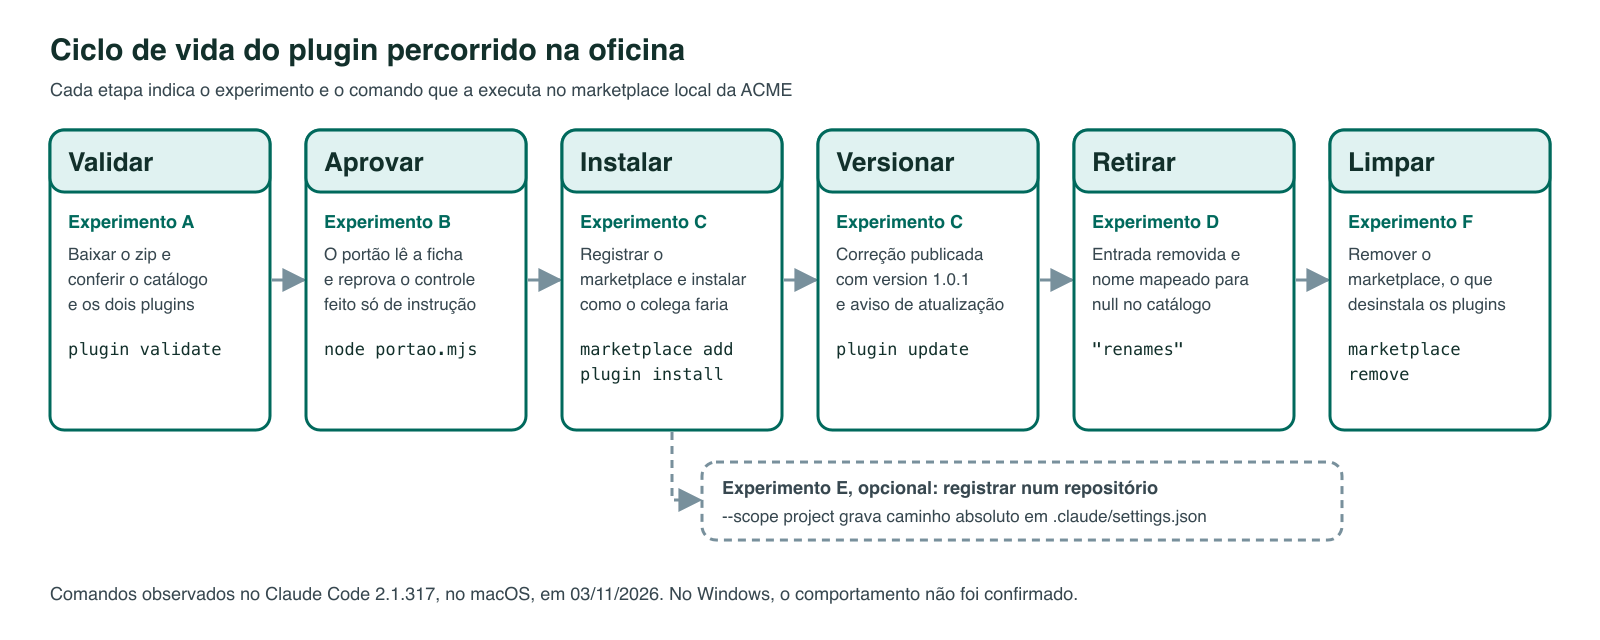
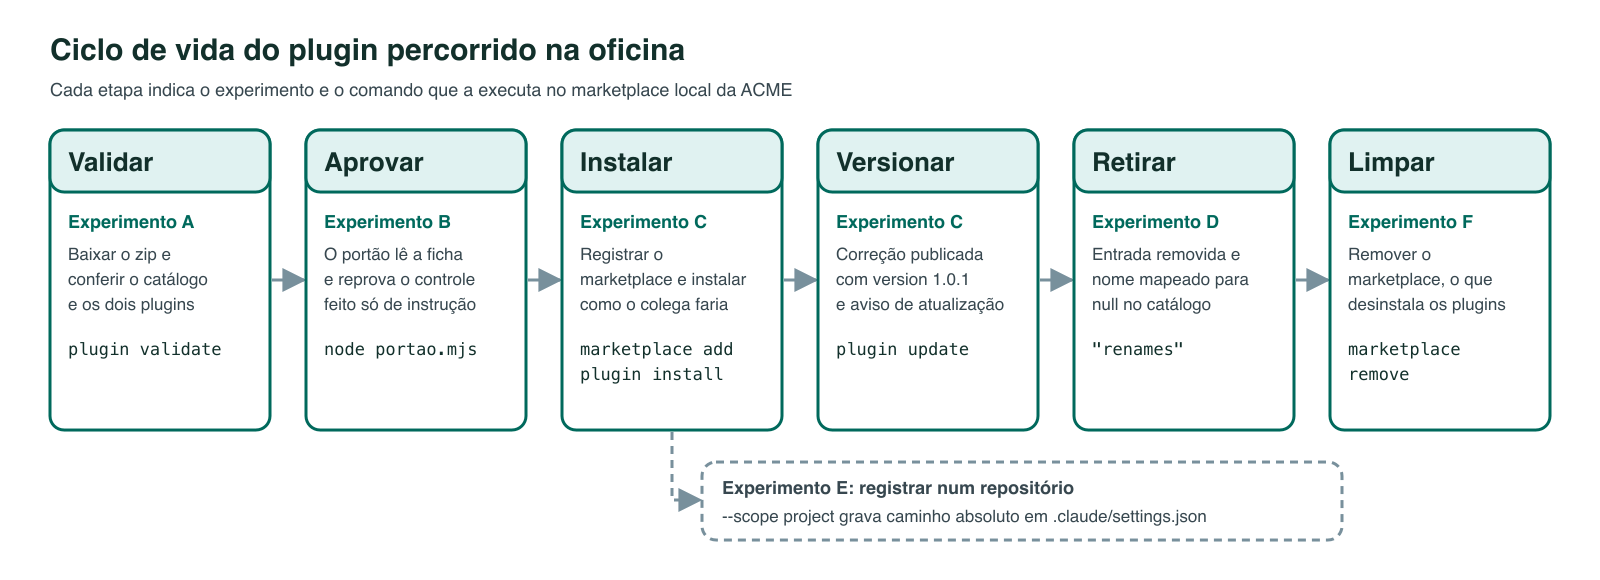
docs: remove as marcas de verificação das páginas da sessão 9

diff --git a/tests/test_conteudo_sessoes.py b/tests/test_conteudo_sessoes.py
@@ -966,8 +966,16 @@ class SessaoNoveTest(unittest.TestCase):
         self.assertIn("dados fictícios", conduzir)
         self.assertIn("ferramenta pedagógica", conduzir)
 
-    def test_versao_verificada_do_claude_code(self):
-        self.assertIn("2.1.317", self.secao("Como usar este material"))
+    def test_sem_marcas_de_verificacao(self):
+        """Pedido do Marco, 03/11/2026: as páginas não explicam como as afirmações foram verificadas."""
+        arquivos = sorted(S9.glob("*.md")) + sorted((S9 / "assets").glob("*.svg"))
+        self.assertTrue(arquivos)
+        for caminho in arquivos:
+            texto = caminho.read_text(encoding="utf-8")
+            sem_rotulo_de_aba = re.sub(r'(?m)^=== "Windows \(PowerShell\)"$', "", texto)
+            for marca in (r"(?i)não confirmad", r"(?i)executado no", r"2\.1\.317", r"(?i)\bobservado\b", r"PowerShell"):
+                with self.subTest(arquivo=caminho.name, marca=marca):
+                    self.assertIsNone(re.search(marca, sem_rotulo_de_aba))
 
     def test_nenhum_termo_privativo(self):
         # A lista de termos é local e fica fora do Git: o repositório é público.
@@ -1137,7 +1145,7 @@ class SessaoNoveTest(unittest.TestCase):
     def test_complementares_sem_eval_executavel(self):
         texto = self.texto("experimentos-complementares.md")
         self.assertIn("claude plugin eval", texto)
-        self.assertIn("documentado", texto)
+        self.assertIn("documentação", texto)
         for bloco in re.findall(r"(?ms)^\s*```[a-z]*\n(.*?)^\s*```", texto):
             with self.subTest(bloco=bloco[:40]):
                 self.assertNotIn("plugin eval", bloco)

diff --git a/docs/sessao-09-governanca-de-skills-e-agentes/experimentos-complementares.md b/docs/sessao-09-governanca-de-skills-e-agentes/experimentos-complementares.md
@@ -2,19 +2,19 @@
 
 Estas três práticas são opcionais e ficam para depois da sessão. Elas partem do marketplace local da [oficina](oficina-de-ferramentas.md), que empacota duas skills da ACME, a universidade fictícia usada na Sessão 8 e nesta sessão, com a ficha de governança gravada em `governanca.json` dentro de cada plugin e conferida pelo script de portão `portao.mjs`.
 
-As afirmações sobre o Claude Code seguem as marcas da sessão: **observado** indica comportamento executado em 03/11/2026 com o Claude Code 2.1.317 no macOS, **documentado** indica texto da documentação oficial lido sem execução e **não confirmado** indica item que a documentação lida não cobre ou que não foi executado. Nenhuma das práticas publica dado interno, e o trabalho com o protótipo real do grupo fica no ambiente interno da equipe.
+Nenhuma das práticas publica dado interno, e o trabalho com o protótipo real do grupo fica no ambiente interno da equipe.
 
 ## Empacotar o protótipo real do grupo
 
 O grupo acrescenta o protótipo em que trabalha como terceiro plugin de uma cópia do marketplace da oficina. A cópia fica num repositório interno da equipe, e nem a ficha nem os arquivos do protótipo entram no repositório público do workshop ou neste site.
 
-![Seis etapas do protótipo do grupo ao marketplace da equipe: terceiro plugin numa cópia do marketplace no repositório interno, ficha em governanca.json, portão e instalação observados na versão 2.1.317, troca com outro grupo, hospedagem num repositório git da equipe, documentada e sem execução, e portão na esteira, por inferência e sem execução.](assets/do-prototipo-ao-marketplace.png)
+![Seis etapas do protótipo do grupo ao marketplace da equipe: terceiro plugin numa cópia do marketplace no repositório interno, ficha em governanca.json, portão e instalação com os comandos da oficina, troca com outra equipe, hospedagem num repositório git da equipe na forma descrita pela documentação, e portão na esteira, como proposta a configurar pela equipe.](assets/do-prototipo-ao-marketplace.png)
 
 **Passo 1:** copiar a pasta `marketplace-acme` da oficina para o repositório interno e criar dentro de `plugins/` uma pasta com o nome do protótipo, em letras minúsculas e com hífens. A pasta recebe o manifesto `.claude-plugin/plugin.json`, com `name`, `version` e `description`, e cada skill do protótipo em `skills/<nome-da-skill>/SKILL.md`, a mesma estrutura dos dois plugins da oficina.
 
 **Passo 2:** gravar em `governanca.json` a ficha preenchida nos exercícios 1 a 5, com os mesmos campos dos plugins da oficina. A ficha descreve a credencial pelo tipo, pelo dono e pelo escopo, sem conter o valor de nenhuma credencial, e uma faixa alta exige o nome do aprovador e a data da aprovação em `gate`, regra que o portão confere.
 
-**Passo 3:** acrescentar a entrada do protótipo à lista `plugins` do `marketplace.json`, com `name`, `source` relativo em barras normais e `description`, e rodar o portão e a instalação da oficina. Os comandos são os mesmos dos Experimentos B e C, observados na versão 2.1.317, com o nome do protótipo no lugar de `identificando-tarefas-e-riscos`.
+**Passo 3:** acrescentar a entrada do protótipo à lista `plugins` do `marketplace.json`, com `name`, `source` relativo em barras normais e `description`, e rodar o portão e a instalação da oficina. Os comandos são os mesmos dos Experimentos B e C, com o nome do protótipo no lugar de `identificando-tarefas-e-riscos`.
 
 ```text
 node portao.mjs ./marketplace-acme
@@ -25,33 +25,32 @@ claude plugin details <nome-do-prototipo>
 
 **Passo 4:** trocar o marketplace com outro grupo, que instala o protótipo como colega e revisa a ficha com os critérios dos exercícios 3 a 5. O resultado esperado é ao menos um achado registrado na ficha, como uma premissa sem responsável pela verificação ou um controle preventivo que ainda depende de instrução ao modelo.
 
-A página [Compartilhamento governado](compartilhamento-governado.md) informa que um plugin também pode agrupar agentes, hooks e servidores MCP, e a disposição desses componentes dentro do plugin consta da [documentação de marketplaces](../referencia/bibliografia.md#anthropic-marketplaces-de-plugins-no-claude-code-documentacao) sem execução nesta sessão (documentado).
+A página [Compartilhamento governado](compartilhamento-governado.md) informa que um plugin também pode agrupar agentes, hooks e servidores MCP, e a disposição desses componentes dentro do plugin consta da [documentação de marketplaces](../referencia/bibliografia.md#anthropic-marketplaces-de-plugins-no-claude-code-documentacao).
 
 ## Hospedar o marketplace num repositório git da equipe
 
-Esta prática descreve a forma que a documentação indica para um marketplace compartilhado entre máquinas, e nenhum dos seus passos foi executado nesta sessão. O Experimento E da oficina mostrou que o registro de uma pasta local grava um caminho absoluto em `.claude/settings.json`, que só funciona no computador de quem executou o comando (observado).
+Esta prática descreve a forma que a documentação indica para um marketplace compartilhado entre máquinas. O Experimento E da oficina mostrou que o registro de uma pasta local grava um caminho absoluto em `.claude/settings.json`, que só funciona no computador de quem executou o comando.
 
-A documentação de marketplaces descreve quatro formas de hospedagem: um repositório no GitHub, outro servidor git identificado pela URL completa, uma URL que serve o `marketplace.json` e uma pasta de sistema de arquivos compartilhado (documentado). Na versão 2.1.317, a mensagem de erro de `claude plugin marketplace add` para uma origem recusada lista os formatos aceitos como `owner/repo`, `https://...` e `./path` (observado).
+A documentação de marketplaces descreve quatro formas de hospedagem: um repositório no GitHub, outro servidor git identificado pela URL completa, uma URL que serve o `marketplace.json` e uma pasta de sistema de arquivos compartilhado. A mensagem de erro de `claude plugin marketplace add` para uma origem recusada lista os formatos aceitos como `owner/repo`, `https://...` e `./path`.
 
-| Decisão | Comportamento descrito | Marca |
-|---|---|---|
-| Entrega da correção | Numa fonte git, o colega recebe a cópia nova quando a versão calculada do plugin muda, e commits novos com a mesma `version` não chegam | Documentado |
-| Fixação da versão | Os campos `ref` e `sha` da fonte prendem o plugin a um ramo, a uma etiqueta ou a um commit | Documentado |
-| Registro no repositório | `extraKnownMarketplaces` em `.claude/settings.json` com fonte `github` ou `git` dispensa caminho local e vale para quem confia na pasta | Documentado, sem execução nesta sessão |
-| Acesso a servidor privado | A autenticação num servidor git privado da equipe, como GitHub ou Azure DevOps, ficou sem verificação nesta sessão | Não confirmado |
+| Decisão | Comportamento descrito na documentação |
+|---|---|
+| Entrega da correção | Numa fonte git, o colega recebe a cópia nova quando a versão calculada do plugin muda, e commits novos com a mesma `version` não chegam |
+| Fixação da versão | Os campos `ref` e `sha` da fonte prendem o plugin a um ramo, a uma etiqueta ou a um commit |
+| Registro no repositório | `extraKnownMarketplaces` em `.claude/settings.json` com fonte `github` ou `git` dispensa caminho local e vale para quem confia na pasta |
 
-Por inferência deste material, sem execução, o portão da oficina pode rodar na esteira do repositório do marketplace antes de cada merge, porque ele termina com código 1 quando algum plugin reprova e com código 2 quando o catálogo é ilegível. Com essa esteira, a linha "Evidência e gate" da ficha passa a apontar para o registro da execução do portão e para o nome de quem aprovou o pull request.
+Como proposta, o portão da oficina pode rodar na esteira do repositório do marketplace antes de cada merge, porque ele termina com código 1 quando algum plugin reprova e com código 2 quando o catálogo é ilegível. Com essa esteira, a linha "Evidência e gate" da ficha passa a apontar para o registro da execução do portão e para o nome de quem aprovou o pull request.
 
 !!! note "Claude Code e Codex CLI"
     **Claude Code:** hospedagem em GitHub, servidor git, URL ou pasta compartilhada, conforme a [documentação de marketplaces](../referencia/bibliografia.md#anthropic-marketplaces-de-plugins-no-claude-code-documentacao).
-    **Codex CLI:** a [documentação de plugins do Codex](../referencia/bibliografia.md#openai-codex-build-plugins-documentacao) informa que `codex plugin marketplace add` aceita GitHub, URL git ou pasta local, e que a publicação de um plugin no workspace exige administrador. Esses itens constam da documentação consultada em 03/11/2026, sem execução nesta sessão.
+    **Codex CLI:** a [documentação de plugins do Codex](../referencia/bibliografia.md#openai-codex-build-plugins-documentacao) informa que `codex plugin marketplace add` aceita GitHub, URL git ou pasta local, e que a publicação de um plugin no workspace exige administrador.
 
 ## Avaliar o plugin antes da publicação
 
-O Claude Code 2.1.317 tem o comando `claude plugin eval`, que aparece na ajuda de `claude plugin` (observado) e roda casos de avaliação contra um plugin, segundo a [documentação de avaliação de plugins](../referencia/bibliografia.md#anthropic-avaliacao-de-plugins-no-claude-code-documentacao). Nenhuma avaliação foi executada nesta sessão, porque cada execução chama o modelo com a credencial de quem a roda e conta no uso do plano ou na fatura de API, e por isso esta seção descreve o comando sem passos para executar.
+O Claude Code tem o comando `claude plugin eval`, que aparece na ajuda de `claude plugin` e roda casos de avaliação contra um plugin, segundo a [documentação de avaliação de plugins](../referencia/bibliografia.md#anthropic-avaliacao-de-plugins-no-claude-code-documentacao). Cada execução chama o modelo com a credencial de quem a roda e conta no uso do plano ou na fatura de API, e por isso esta seção descreve o comando sem passos para executar.
 
-Segundo a documentação, um caso de avaliação fica numa pasta dentro do plugin, com `prompt.md`, `case.yaml` ou os dois, e precisa de ao menos um avaliador. Os avaliadores do tipo `regex`, `tool_used`, `tool_order` e `file_exists` conferem o resultado sem chamar o modelo, e por padrão cada caso roda três vezes com o plugin e três vezes sem ele, o que soma seis execuções de agente (documentado). O relatório em HTML é gravado localmente e, quando a conta permite, também é publicado como artefato privado no claude.ai, com a opção `--no-publish` para evitar a publicação (documentado).
+Segundo a documentação, um caso de avaliação fica numa pasta dentro do plugin, com `prompt.md`, `case.yaml` ou os dois, e precisa de ao menos um avaliador. Os avaliadores do tipo `regex`, `tool_used`, `tool_order` e `file_exists` conferem o resultado sem chamar o modelo, e por padrão cada caso roda três vezes com o plugin e três vezes sem ele, o que soma seis execuções de agente. O relatório em HTML é gravado localmente e, quando a conta permite, também é publicado como artefato privado no claude.ai, com a opção `--no-publish` para evitar a publicação.
 
-Por inferência deste material, sem execução, os testes T01 a T03 da página [Controles e evidências](controles-e-evidencias.md) podem ser escritos como casos de avaliação do plugin. A parte do T01 que exige a ausência de chamada a URL externa corresponde ao que um avaliador do tipo `tool_used` confere segundo a documentação, e a decisão de rodar a avaliação cabe à equipe, numa conta autorizada para esse uso.
+Os testes T01 a T03 da página [Controles e evidências](controles-e-evidencias.md) são candidatos a casos de avaliação do plugin. A parte do T01 que exige a ausência de chamada a URL externa corresponde ao que um avaliador do tipo `tool_used` confere segundo a documentação, e a decisão de rodar a avaliação cabe à equipe, numa conta autorizada para esse uso.
 
 **Próxima página:** [Síntese e referências](sintese-e-referencias.md).

diff --git a/docs/sessao-09-governanca-de-skills-e-agentes/oficina-de-ferramentas.md b/docs/sessao-09-governanca-de-skills-e-agentes/oficina-de-ferramentas.md
@@ -15,7 +15,7 @@ Cada plugin traz a ficha de governança no arquivo `governanca.json`, e o script
 | E, registrar num repositório | Extensão opcional | Caminho absoluto em `.claude/settings.json` |
 | F, limpar | Essencial em aula | Remoção do marketplace e dos plugins |
 
-![Ciclo de vida do plugin em seis etapas: baixar e validar no Experimento A, aprovar no portão no B, instalar e publicar a versão 1.0.1 no C, retirar pelo mapa renames no D e limpar no F, com o Experimento E, opcional, derivado da instalação para registrar o marketplace num repositório com --scope project. A nota de rodapé informa que os comandos foram observados no Claude Code 2.1.317, no macOS, e que o comportamento no Windows não foi confirmado.](assets/ciclo-de-vida-do-plugin.png)
+![Ciclo de vida do plugin em seis etapas: baixar e validar no Experimento A, aprovar no portão no B, instalar e publicar a versão 1.0.1 no C, retirar pelo mapa renames no D e limpar no F, com o Experimento E, opcional, derivado da instalação para registrar o marketplace num repositório com --scope project.](assets/ciclo-de-vida-do-plugin.png)
 
 ## Preparação
 
@@ -50,7 +50,7 @@ Os experimentos registram o marketplace na configuração do usuário do Claude 
     Get-ChildItem ./marketplace-acme/plugins
     ```
 
-A listagem mostra as pastas `identificando-tarefas-e-riscos` e `revisando-pull-requests`, e a pasta de trabalho fica com a estrutura abaixo (observado no macOS). No Windows, a extração com `Expand-Archive` é não confirmada, porque nenhum comando desta página foi executado no PowerShell.
+A listagem mostra as pastas `identificando-tarefas-e-riscos` e `revisando-pull-requests`, e a pasta de trabalho fica com a estrutura abaixo.
 
 ```text
 oficina-governanca/
@@ -76,7 +76,7 @@ O primeiro plugin é a skill `identificando-tarefas-e-riscos` da Sessão 8, na v
 claude plugin validate ./marketplace-acme
 ```
 
-A saída traz `Validating marketplace manifest:` com o caminho absoluto do catálogo e termina com `✔ Validation passed` e código 0 (observado, v2.1.317). O comando ignora `governanca.json`, e por isso a ficha precisa de um portão próprio.
+A saída traz `Validating marketplace manifest:` com o caminho absoluto do catálogo e termina com `✔ Validation passed` e código 0. O comando ignora `governanca.json`, e por isso a ficha precisa de um portão próprio.
 
 ## Experimento B: aprovar no portão
 
@@ -118,7 +118,7 @@ A ficha do segundo plugin declara como controle preventivo um pedido ao modelo, 
 }
 ```
 
-O portão reprova a ficha com campo obrigatório vazio, a faixa abaixo da alta com dado sensível ou autonomia `executa`, a faixa alta sem aprovador e o controle preventivo do tipo `instrucao`. Quando nenhum plugin reprova, ele executa `claude plugin validate`, e o código de saída é 0 na aprovação, 1 na reprovação e 2 quando o catálogo é ilegível ou o `claude` está ausente. No Windows, a execução do portão é não confirmada.
+O portão reprova a ficha com campo obrigatório vazio, a faixa abaixo da alta com dado sensível ou autonomia `executa`, a faixa alta sem aprovador e o controle preventivo do tipo `instrucao`. Quando nenhum plugin reprova, ele executa `claude plugin validate`, e o código de saída é 0 na aprovação, 1 na reprovação e 2 quando o catálogo é ilegível ou o `claude` está ausente.
 
 ![Caminho da ficha à instalação: o arquivo governanca.json entra no script portao.mjs, que reprova com código 1 diante de campo vazio, faixa incompatível com dado sensível ou autonomia executa, faixa alta sem aprovador ou controle preventivo do tipo instrucao, e sai com código 2 quando o catálogo é ilegível. Com código 0, o portão chama claude plugin validate e o colega registra o marketplace e instala o plugin.](assets/caminho-do-portao.png)
 
@@ -128,7 +128,7 @@ O portão reprova a ficha com campo obrigatório vazio, a faixa abaixo da alta c
 node portao.mjs ./marketplace-acme
 ```
 
-A saída mostra a reprovação do segundo plugin, e o código de saída é 1 (observado).
+A saída mostra a reprovação do segundo plugin, e o código de saída é 1.
 
 ```text
 identificando-tarefas-e-riscos: aprovado
@@ -147,7 +147,7 @@ A reprovação aplica o critério do [exercício 5](exercicios.md#5-controle-pre
       },
 ```
 
-**Passo 3:** rodar o portão de novo com `node portao.mjs ./marketplace-acme`. Os dois plugins passam e o código de saída é 0 (observado).
+**Passo 3:** rodar o portão de novo com `node portao.mjs ./marketplace-acme`. Os dois plugins passam e o código de saída é 0.
 
 ```text
 identificando-tarefas-e-riscos: aprovado
@@ -170,7 +170,7 @@ claude plugin install revisando-pull-requests@marketplace-acme
 claude plugin list
 ```
 
-O registro responde `✔ Successfully added marketplace: marketplace-acme (declared in user settings)`, cada instalação termina com `(scope: user)`, e a lista mostra `Version: 1.0.0`, `Read from:` com a pasta do plugin e `Status: ✔ enabled` (observado).
+O registro responde `✔ Successfully added marketplace: marketplace-acme (declared in user settings)`, cada instalação termina com `(scope: user)`, e a lista mostra `Version: 1.0.0`, `Read from:` com a pasta do plugin e `Status: ✔ enabled`.
 
 **Passo 2:** publicar uma correção. Acrescente ao fim do `SKILL.md` de `identificando-tarefas-e-riscos` a linha `Ordene as tarefas pelo prazo, com as tarefas sem prazo no fim da lista.` e troque `"version": "1.0.0"` por `"version": "1.0.1"` no `plugin.json` do mesmo plugin.
 
@@ -181,9 +181,9 @@ claude plugin update identificando-tarefas-e-riscos@marketplace-acme
 claude plugin details identificando-tarefas-e-riscos
 ```
 
-O `update` responde `✔ Plugin "identificando-tarefas-e-riscos" updated from 1.0.0 to 1.0.1 for scope user. Restart to apply changes.`, e `details` passa a mostrar a versão 1.0.1 (observado).
+O `update` responde `✔ Plugin "identificando-tarefas-e-riscos" updated from 1.0.0 to 1.0.1 for scope user. Restart to apply changes.`, e `details` passa a mostrar a versão 1.0.1.
 
-Num marketplace de pasta local, a versão controla o aviso de atualização e o número exibido, além da cópia gravada no cache (observado). O conteúdo carregado pela skill vem da própria pasta do marketplace, indicada na linha `Read from:` de `claude plugin list` (observado). Uma edição sem aumento de versão produziu `nothing to update` (observado). Numa fonte git remota, a documentação informa que a versão decide o que o colega recebe, e essa entrega não foi testada (documentado e não confirmado).
+Num marketplace de pasta local, a versão controla o aviso de atualização e o número exibido, além da cópia gravada no cache, e o conteúdo carregado pela skill vem da própria pasta do marketplace, indicada na linha `Read from:` de `claude plugin list`. Uma edição sem aumento de versão produz `nothing to update`. Numa fonte git remota, a documentação indica que a versão decide o que o colega recebe.
 
 ## Experimento D: retirar o plugin de revisão
 
@@ -205,7 +205,7 @@ claude plugin list
 claude plugin update revisando-pull-requests@marketplace-acme
 ```
 
-O portão aprova o plugin restante. A primeira lista ainda mostrou `revisando-pull-requests` com `Status: ✔ enabled`, já sem `Read from:`, a segunda mostrou `Status: ✘ disabled`, e o `update` terminou com código 1 e a mensagem `Plugin "revisando-pull-requests" not found` (observado). A documentação informa que o usuário vê `Removed from the "marketplace-acme" marketplace` em `claude plugin list` e em `/plugin` (documentado), mas essa mensagem não apareceu na linha de comando e ficou sem verificação numa sessão interativa (não confirmado em campo). Como o colega fica sem aviso explícito, o campo `revisao.retirada` da ficha inclui a revogação da credencial e o aviso direto a quem tinha o plugin instalado.
+O portão aprova o plugin restante. A primeira lista ainda mostra `revisando-pull-requests` com `Status: ✔ enabled`, já sem `Read from:`, a segunda mostra `Status: ✘ disabled`, e o `update` termina com código 1 e a mensagem `Plugin "revisando-pull-requests" not found`. A mensagem `Removed from the "marketplace-acme" marketplace`, que a documentação descreve, não aparece na linha de comando. Como o colega fica sem aviso explícito, o campo `revisao.retirada` da ficha inclui a revogação da credencial e o aviso direto a quem tinha o plugin instalado.
 
 ## Experimento E: registrar o marketplace num repositório
 
@@ -220,9 +220,9 @@ claude plugin install identificando-tarefas-e-riscos@marketplace-acme --scope pr
 git status
 ```
 
-Com o marketplace já registrado no escopo do usuário, o registro responde `✔ Marketplace 'marketplace-acme' already on disk — declared in project settings`, e a instalação responde com `(scope: project)`. O `git status` mostra `.claude/` como pasta nova, com `.claude/settings.json` contendo `extraKnownMarketplaces` e `enabledPlugins` (observado).
+Com o marketplace já registrado no escopo do usuário, o registro responde `✔ Marketplace 'marketplace-acme' already on disk — declared in project settings`, e a instalação responde com `(scope: project)`. O `git status` mostra `.claude/` como pasta nova, com `.claude/settings.json` contendo `extraKnownMarketplaces` e `enabledPlugins`.
 
-O valor gravado em `extraKnownMarketplaces` é o caminho absoluto da pasta no computador de quem executou o comando, e esse caminho entra no arquivo versionado do repositório (observado). Para repositório compartilhado, a documentação descreve as fontes `github` e `git`, que esta oficina deixou sem teste (documentado e não confirmado), e a página [Experimentos complementares](experimentos-complementares.md) trata dessa hospedagem.
+O valor gravado em `extraKnownMarketplaces` é o caminho absoluto da pasta no computador de quem executou o comando, e esse caminho entra no arquivo versionado do repositório. Para repositório compartilhado, a documentação descreve as fontes `github` e `git`, e a página [Experimentos complementares](experimentos-complementares.md) trata dessa hospedagem.
 
 ## Experimento F: limpar
 
@@ -233,7 +233,7 @@ claude plugin marketplace remove marketplace-acme
 claude plugin list
 ```
 
-A remoção responde `✔ Successfully removed marketplace: marketplace-acme` e `Also uninstalled` com os plugins instalados a partir dele, inclusive o desabilitado, e por isso um `claude plugin uninstall` depois dela termina com erro (observado).
+A remoção responde `✔ Successfully removed marketplace: marketplace-acme` e `Also uninstalled` com os plugins instalados a partir dele, inclusive o desabilitado, e por isso um `claude plugin uninstall` depois dela termina com erro.
 
 **Passo 2:** sair da pasta de trabalho e apagá-la. Quem está em `repositorio-acme` executa `cd ..` uma vez antes dos comandos abaixo.
 
@@ -249,7 +249,7 @@ A remoção responde `✔ Successfully removed marketplace: marketplace-acme` e 
     Remove-Item -Recurse -Force ./oficina-governanca
     ```
 
-A pasta do cache do marketplace, dentro da configuração do Claude Code do usuário, permaneceu no disco depois da remoção, sem registrar o marketplace nem habilitar plugin (observado).
+A pasta do cache do marketplace, dentro da configuração do Claude Code do usuário, permaneceu no disco depois da remoção, sem registrar o marketplace nem habilitar plugin.
 
 ## Extensão: o protótipo real do grupo
 

diff --git a/docs/sessao-09-governanca-de-skills-e-agentes/index.md b/docs/sessao-09-governanca-de-skills-e-agentes/index.md
@@ -31,16 +31,13 @@ A ficha existe para que a decisão de compartilhar fique escrita antes da primei
 
 A sessão alterna teoria e dois blocos de exercícios. O primeiro bloco aplica a triagem por criticidade e a análise de riscos a uma skill de uma organização fictícia, e o segundo empacota uma skill como plugin num marketplace local, com a ficha de governança dentro do plugin, e percorre a publicação, a instalação, a correção e a retirada.
 
-![Sequência da sessão em onze linhas, com a linha da ficha ou o foco de cada uma: a visão geral, as três páginas de teoria do primeiro bloco com as linhas da ficha que preenchem, os exercícios de triagem e riscos de uma skill da ACME, o intervalo às 11h00, as páginas de controles e evidências e de compartilhamento governado, a oficina do marketplace local com a ficha gravada em governanca.json, os experimentos complementares opcionais e a síntese.](assets/mapa-da-sessao.png)
+![Sequência da sessão em onze linhas, com a linha da ficha ou o foco de cada uma: a visão geral, as três páginas de teoria do primeiro bloco com as linhas da ficha que preenchem, os exercícios de triagem e riscos de uma skill da ACME, o intervalo às 11h00, as páginas de controles e evidências e de compartilhamento governado, a oficina do marketplace local com a ficha gravada em governanca.json, os experimentos complementares e a síntese.](assets/mapa-da-sessao.png)
 
 ## Como usar este material
 
 Estas páginas apoiam uma sessão conduzida ao vivo pelo instrutor, sem leitura prévia obrigatória, e o roteiro abaixo apresenta a sequência dos temas e das atividades. A sessão pressupõe o ambiente configurado nas Sessões 1 e 2, o uso do Claude Code e a página de [segurança e credenciais da Sessão 8](../sessao-08-skills-e-agentes/seguranca-e-credenciais.md), que trata de permissões mínimas, identidade própria do agente e ciclo de vida do token e que esta sessão não repete.
 
-!!! info "Versão verificada"
-    A versão instalada em cada máquina aparece no comando `claude --version`. Os comandos `claude plugin` do segundo bloco de exercícios foram executados em 03/11/2026 com o Claude Code 2.1.317 no macOS, e o comportamento registrado nas páginas vale para essa versão. A [preparação da oficina](oficina-de-ferramentas.md#preparacao) pede a conferência da versão antes do primeiro passo, e o comportamento em sistema operacional onde o comando não foi executado aparece como não confirmado.
-
-As páginas marcam cada afirmação de comportamento do Claude Code como observada, quando foi executada na versão acima, documentada, quando vem da documentação oficial lida sem execução, ou não confirmada, quando a documentação lida não cobre o item. As referências normativas entram como quadro de referência, sem estudo aprofundado: o NIST AI RMF 1.0, o perfil NIST AI 600-1, a ISO/IEC 42001:2023, o OWASP Top 10 para aplicações de LLM na edição 2026, a LGPD e o PL 2338/2023, projeto de lei em tramitação na Câmara dos Deputados na consulta de 03/11/2026. As fontes estão listadas na [bibliografia do curso](../referencia/bibliografia.md), com a data de consulta de cada uma.
+As referências normativas entram como quadro de referência, sem estudo aprofundado: o NIST AI RMF 1.0, o perfil NIST AI 600-1, a ISO/IEC 42001:2023, o OWASP Top 10 para aplicações de LLM na edição 2026, a LGPD e o PL 2338/2023, projeto de lei em tramitação na Câmara dos Deputados na consulta de 03/11/2026. As fontes estão listadas na [bibliografia do curso](../referencia/bibliografia.md), com a data de consulta de cada uma.
 
 ## Objetivos de aprendizagem
 
@@ -66,18 +63,16 @@ Ao final desta sessão, o participante deve ser capaz de:
 | [Controles e evidências](controles-e-evidencias.md) | Controles fora do modelo, testes, DoR e DoD |
 | [Compartilhamento governado](compartilhamento-governado.md) | Quatro níveis, plugin, marketplace e ciclo de vida |
 | [Oficina — marketplace local governado](oficina-de-ferramentas.md) | Publicar, instalar, corrigir e retirar |
-| [Experimentos complementares](experimentos-complementares.md) | Práticas opcionais para depois da sessão |
+| [Experimentos complementares](experimentos-complementares.md) | Protótipo da equipe, hospedagem em git e avaliação de plugin |
 | [Síntese e referências](sintese-e-referencias.md) | Checklist, autoavaliação e kit de 30 dias |
 
 ## Como conduzir
 
-A sessão abre com a pergunta disparadora do guia do facilitador [Governança de IA na prática](../referencia/bibliografia.md#arkhi-governanca-de-ia-na-pratica-2026): "Se um agente produzir uma resposta incorreta com aparência de certeza, quem será responsável e como perceberemos o problema?". O instrutor ouve duas respostas da turma e mostra que a pergunta tem uma parte de responsabilidade, registrada nas linhas de dono e de gate da ficha, e uma parte de detecção, registrada nas linhas de riscos e controles e de evidência.
+A sessão abre com a pergunta disparadora do guia do facilitador [Governança de IA na prática](../referencia/bibliografia.md#arkhi-governanca-de-ia-na-pratica-2026): "Se um agente produzir uma resposta incorreta com aparência de certeza, quem será responsável e como perceberemos o problema?". A pergunta tem uma parte de responsabilidade, registrada nas linhas de dono e de gate da ficha, e uma parte de detecção, registrada nas linhas de riscos e controles e de evidência.
 
-Cada página de teoria apresenta um tema, indica no início a linha da ficha que preenche e termina com o bloco "Linha da ficha". O instrutor apresenta o tema sem percorrer as tabelas linha a linha, porque elas ficam à disposição da turma durante os exercícios.
+O primeiro bloco de exercícios usa uma skill da ACME, a universidade fictícia da Sessão 8, que revisa pull requests com uma credencial pessoal ampla usada por conveniência, padrão de risco comum em protótipos de equipes de desenvolvimento. O segundo bloco usa o marketplace de exemplo da pasta `exemplo/marketplace-governado/` do repositório do workshop, com os plugins `identificando-tarefas-e-riscos` e `revisando-pull-requests` e um script de portão escrito para Node 20 ou superior, sem dependências.
 
-O primeiro bloco de exercícios usa uma skill da ACME, a universidade fictícia da Sessão 8, que revisa pull requests com uma credencial pessoal ampla usada por conveniência, padrão de risco comum em protótipos de equipes de desenvolvimento. O segundo bloco usa o marketplace de exemplo da pasta `exemplo/marketplace-governado/` do repositório do workshop, com os plugins `identificando-tarefas-e-riscos` e `revisando-pull-requests` e um script de portão escrito para Node 20 ou superior, sem dependências, executado no macOS em 03/11/2026.
-
-A regra de dados fictícios vale para toda a sessão e é declarada pelo instrutor na abertura. Nenhum exercício usa dado real, credencial real, prompt interno ou documento confidencial, e nenhum depende de papel de administrador na organização do Claude ou do repositório privado do participante. A aplicação ao protótipo real do grupo fica como extensão no fim de cada bloco, feita no ambiente interno da equipe e sem publicação.
+A regra de dados fictícios vale para toda a sessão. Nenhum exercício usa dado real, credencial real, prompt interno ou documento confidencial, e nenhum depende de papel de administrador na organização do Claude ou do repositório privado do participante. A aplicação ao protótipo real da equipe é feita no ambiente interno dela, sem publicação.
 
 !!! warning "Limite desta sessão"
     As três faixas de criticidade da triagem são uma ferramenta pedagógica adaptada do guia do facilitador, sem valor de classificação normativa oficial. A faixa de um caso real depende do contexto, do apetite a risco aprovado pela organização e da avaliação jurídica e de privacidade quando há dado pessoal envolvido. Na forma estrita da regra adotada nesta sessão, um único fator crítico leva o caso direto à faixa alta, independentemente dos demais fatores.

diff --git a/docs/sessao-09-governanca-de-skills-e-agentes/sintese-e-referencias.md b/docs/sessao-09-governanca-de-skills-e-agentes/sintese-e-referencias.md
@@ -12,15 +12,15 @@
 8. **Um controle que depende apenas de instrução ao modelo é reprovado como controle.** Permissão de ferramenta, hook, validação de esquema e política na API rodam fora do modelo, e o critério de aceite com a expressão "independentemente da resposta do modelo" é o teste prático que separa os dois casos, conforme a página [Controles e evidências](controles-e-evidencias.md#controle-fora-do-modelo-e-instrucao-textual).
 9. **Framework adotado, controle implementado e evidência guardada são três estados com registros próprios.** Os [testes T01 a T07](controles-e-evidencias.md#testes-de-aceite-t01-a-t07) transformam os controles em prova verificável, e o guia recomenda automatizar primeiro o T01, o T02 e o T03, que cobrem a injeção de prompt e a agência excessiva.
 10. **Três dos quatro níveis de compartilhamento ficam ao alcance da equipe.** Os níveis pessoal, de repositório e de marketplace dispensam privilégio especial, e o nível de organização, com as configurações gerenciadas, exige papel de administrador, segundo a [página de gestão de plugins na organização](../referencia/bibliografia.md#anthropic-gerenciar-plugins-na-organizacao-documentacao-do-claude-code).
-11. **A versão do plugin controla o aviso de atualização, e a retirada exige procedimento escrito.** Num marketplace de pasta local, a `version` governou o aviso `updated from 1.0.0 to 1.0.1`, o número exibido e o cache, com o conteúdo lido da própria pasta, e a retirada pelo mapa `renames` com `null` desabilitou o plugin sem aviso explícito na linha de comando (observado, v2.1.317), conforme o [ciclo de vida do plugin](compartilhamento-governado.md#ciclo-de-vida-do-plugin).
+11. **A versão do plugin controla o aviso de atualização, e a retirada exige procedimento escrito.** Num marketplace de pasta local, a `version` governou o aviso `updated from 1.0.0 to 1.0.1`, o número exibido e o cache, com o conteúdo lido da própria pasta, e a retirada pelo mapa `renames` com `null` desabilitou o plugin sem aviso explícito na linha de comando, conforme o [ciclo de vida do plugin](compartilhamento-governado.md#ciclo-de-vida-do-plugin).
 
 ## Checklist antes de encerrar a sessão
 
 - [ ] A skill de revisão de pull requests da ACME, a universidade fictícia da sessão, foi classificada numa faixa de risco com o fator que decidiu a faixa.
-- [ ] Cada grupo registrou ao menos um risco como evento e consequência, com controle preventivo fora do modelo, controle detectivo e evidência.
+- [ ] Ao menos um risco foi registrado como evento e consequência, com controle preventivo fora do modelo, controle detectivo e evidência.
 - [ ] Cada premissa não verificada da ficha tem o nome de quem vai verificá-la.
 - [ ] O portão da oficina reprovou o plugin com controle feito só de instrução e aprovou o plugin que tinha a ficha completa.
-- [ ] Cada pessoa instalou o plugin como colega, recebeu a versão 1.0.1 e conferiu o número com `claude plugin details`.
+- [ ] O plugin foi instalado como colega e atualizado para a versão 1.0.1, com o número conferido em `claude plugin details`.
 - [ ] A retirada do plugin de revisão foi feita pelo mapa `renames`, e a ficha registra a revogação da credencial e o aviso direto a quem tinha o plugin instalado.
 - [ ] O marketplace da oficina foi removido com `claude plugin marketplace remove`, e a pasta de trabalho foi apagada.
 - [ ] Nenhum exercício usou dado real, credencial real ou papel de administrador da organização do Claude.
@@ -71,7 +71,7 @@ O guia recomenda evitar metas artificiais de perfeição no primeiro mês e usar
 
 ## Fundamentação
 
-Todas as fontes citadas nesta sessão estão na [bibliografia do curso](../referencia/bibliografia.md), com URL e data de consulta. A teoria se apoia no guia do facilitador, em normas e frameworks usados como quadro de referência e em pesquisa primária sobre segurança de agentes, alucinação e fatores humanos, e a documentação do Claude Code e do Codex CLI foi consultada em 03/11/2026. O comportamento marcado como observado foi executado com o Claude Code 2.1.317 no macOS e vale para essa versão.
+Todas as fontes citadas nesta sessão estão na [bibliografia do curso](../referencia/bibliografia.md), com URL e data de consulta. A teoria se apoia no guia do facilitador, em normas e frameworks usados como quadro de referência, em pesquisa primária sobre segurança de agentes, alucinação e fatores humanos e na documentação oficial do Claude Code e do Codex CLI.
 
 | Página | Fontes citadas |
 |---|---|
@@ -82,7 +82,7 @@ Todas as fontes citadas nesta sessão estão na [bibliografia do curso](../refer
 | Exercícios — triagem e riscos de uma skill | [Governança de IA na prática](../referencia/bibliografia.md#arkhi-governanca-de-ia-na-pratica-2026), [OWASP Top 10 para aplicações de LLM, edição 2026](../referencia/bibliografia.md#owasp-top-10-for-llm-applications-2026) e [LGPD](../referencia/bibliografia.md#brasil-lei-geral-de-protecao-de-dados-pessoais-2018) |
 | Controles e evidências | [Governança de IA na prática](../referencia/bibliografia.md#arkhi-governanca-de-ia-na-pratica-2026), [NIST AI RMF 1.0](../referencia/bibliografia.md#nist-ai-risk-management-framework-10-core-2023) e [Gherkin](../referencia/bibliografia.md#cucumber-gherkin-reference) |
 | Compartilhamento governado | [Skills no Claude Code](../referencia/bibliografia.md#anthropic-skills-no-claude-code-documentacao), [Gerenciar plugins na organização](../referencia/bibliografia.md#anthropic-gerenciar-plugins-na-organizacao-documentacao-do-claude-code), [Marketplaces de plugins](../referencia/bibliografia.md#anthropic-marketplaces-de-plugins-no-claude-code-documentacao), [Avaliação de plugins](../referencia/bibliografia.md#anthropic-avaliacao-de-plugins-no-claude-code-documentacao), [Governança de IA na prática](../referencia/bibliografia.md#arkhi-governanca-de-ia-na-pratica-2026) e [Codex: Build plugins](../referencia/bibliografia.md#openai-codex-build-plugins-documentacao) |
-| Oficina — marketplace local governado | [Marketplaces de plugins](../referencia/bibliografia.md#anthropic-marketplaces-de-plugins-no-claude-code-documentacao) e [Instalação e requisitos do Claude Code](../referencia/bibliografia.md#anthropic-instalacao-e-requisitos-do-claude-code-documentacao), esta última para a ausência de exemplo dos comandos `claude plugin` no Windows |
+| Oficina — marketplace local governado | [Marketplaces de plugins](../referencia/bibliografia.md#anthropic-marketplaces-de-plugins-no-claude-code-documentacao) e [Instalação e requisitos do Claude Code](../referencia/bibliografia.md#anthropic-instalacao-e-requisitos-do-claude-code-documentacao) |
 | Experimentos complementares | [Marketplaces de plugins](../referencia/bibliografia.md#anthropic-marketplaces-de-plugins-no-claude-code-documentacao), [Avaliação de plugins](../referencia/bibliografia.md#anthropic-avaliacao-de-plugins-no-claude-code-documentacao) e [Codex: Build plugins](../referencia/bibliografia.md#openai-codex-build-plugins-documentacao) |
 | Síntese e referências | [Governança de IA na prática](../referencia/bibliografia.md#arkhi-governanca-de-ia-na-pratica-2026), para o kit de 30 dias, os indicadores de partida e as discussões orientadas |
 
